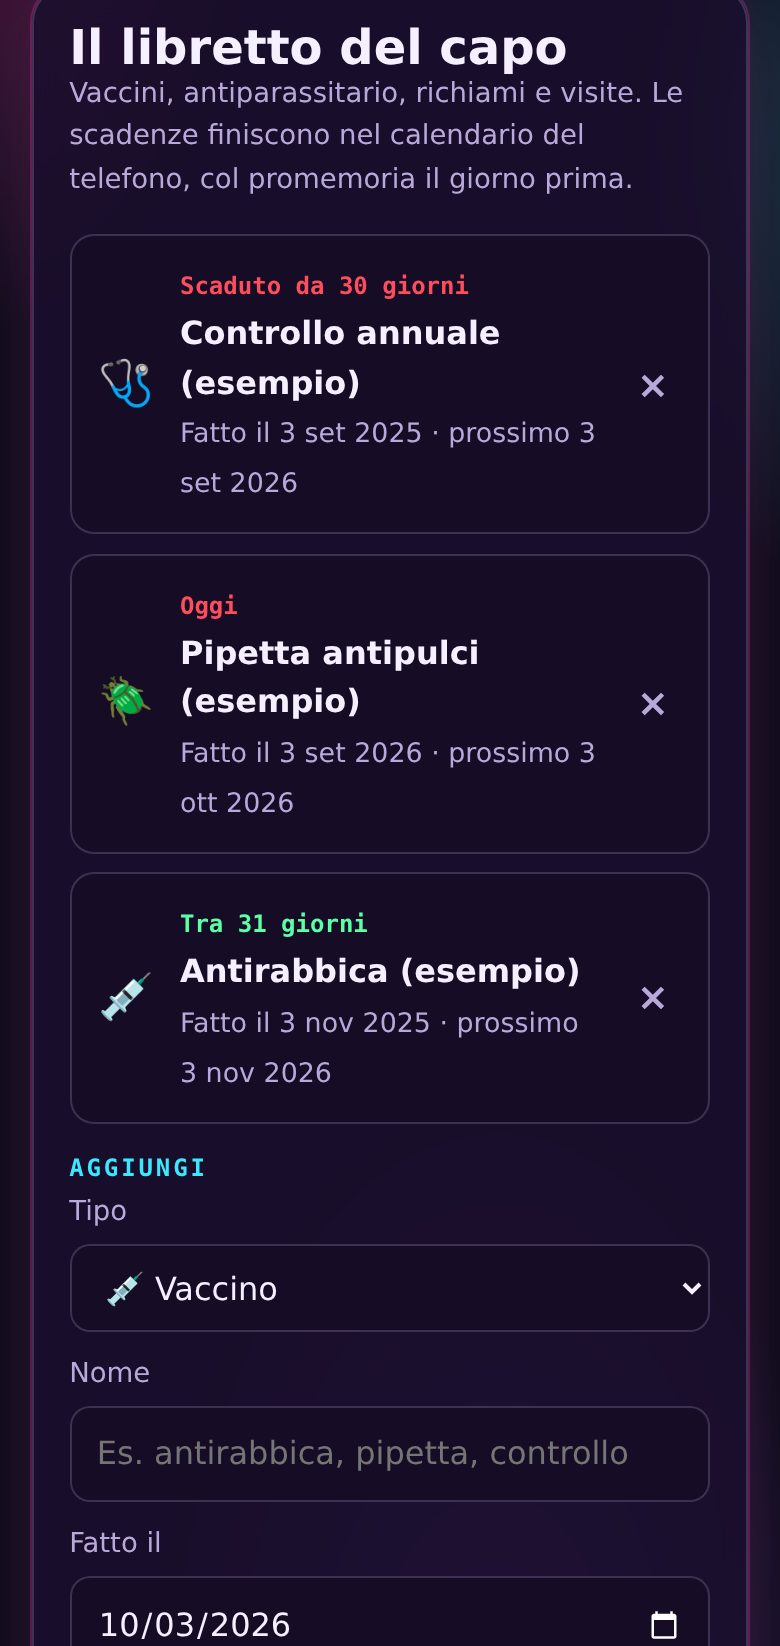
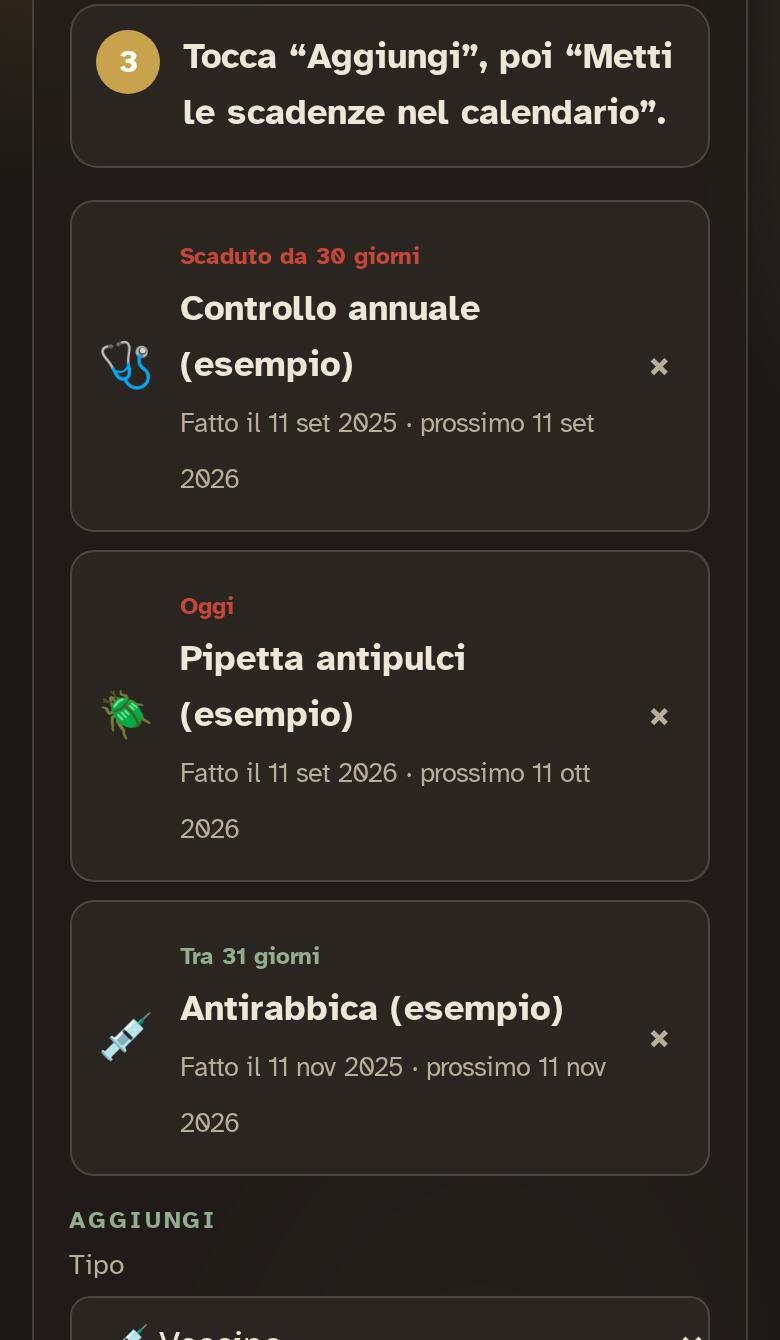
Home: tolto obiettivo del mese, tesserino e libretto coi colori caldi
Screenshot nuovi dell'app nello stile caldo, più leggeri (334 KB -> 159 KB)
e con alt descrittivi. Sfondo del tesserino disegnato senza viola.

Claude-Session: https://claude.ai/code/session_01BKwM2myyjwvkV7urNBGCWK

diff --git a/docs/index.html b/docs/index.html
@@ -376,8 +376,8 @@ footer .who + p{margin-top:.6rem}
       </div>
     </div>
     <div class="phones" aria-label="Schermate dell'app">
-      <figure class="p1"><div class="scr"><img src="/img/app-tesserino.jpg" alt="Schermata del tesserino col QR" loading="lazy" width="780" height="1646"></div><figcaption>Il tesserino, fronte e retro.</figcaption></figure>
-      <figure class="p2"><div class="scr"><img src="/img/app-libretto.jpg" alt="Schermata del libretto dei vaccini" loading="lazy" width="780" height="1646"></div><figcaption>Il libretto dei vaccini.</figcaption></figure>
+      <figure class="p1"><div class="scr"><img src="/img/app-tesserino.jpg" alt="Tesserino gratis per cane e gatto con QR da collare: fronte con nome e foto, retro con microchip e contatti" loading="lazy" width="780" height="1340"></div><figcaption>Il tesserino, fronte e retro.</figcaption></figure>
+      <figure class="p2"><div class="scr"><img src="/img/app-libretto.jpg" alt="Libretto online dei vaccini e degli antiparassitari del cane con le scadenze e il promemoria" loading="lazy" width="780" height="1340"></div><figcaption>Il libretto dei vaccini.</figcaption></figure>
     </div>
   </section>
 
@@ -390,13 +390,10 @@ footer .who + p{margin-top:.6rem}
       <div class="conto" id="conto">
         <h3>Il conto di ottobre</h3>
         <dl>
-          <dt>Obiettivo del mese</dt><dd>109 €</dd>
           <dt>Incassato</dt><dd>4,98 €</dd>
           <dt>Spese<small>Pubblicità Facebook 10 €, TikTok 8,47 €, commissioni Stripe 0,68 €. La pubblicità la paga Federico.</small></dt><dd>19,15 €</dd>
           <dt>Donato ai rifugi</dt><dd>2 €</dd>
         </dl>
-        <div class="meter" role="img" aria-label="Incassati 4,98 euro su 109"><span style="width:4.57%;background:var(--sage)"></span></div>
-        <p class="key"><span><i style="background:var(--sage)"></i>Incassato, su 109 €</span></p>
         <p class="note">Numeri veri, aggiornati a mano ogni sera. Ultimo: 11 ottobre 2026, ore 02:20.</p>
       </div>
     </div>

diff --git a/docs/ufficio/index.html b/docs/ufficio/index.html
@@ -757,7 +757,7 @@ show();})();
   function wrap(x,text,maxW){var words=text.split(' '),lines=[],cur='';words.forEach(function(w){var t=cur?cur+' '+w:w;if(x.measureText(t).width>maxW&&cur){lines.push(cur);cur=w}else cur=t});if(cur)lines.push(cur);return lines}
   function fit(x,text,font,size,maxW){do{x.font=font.replace('%',size)}while(x.measureText(text).width>maxW&&(size-=2)>20);return size}
   function bg(x,w,h){
-    var g=x.createLinearGradient(0,0,w,h);g.addColorStop(0,'#1B0B2E');g.addColorStop(1,'#1A1714');x.fillStyle=g;rr(x,0,0,w,h,36);x.fill();
+    var g=x.createLinearGradient(0,0,w,h);g.addColorStop(0,'#2A2520');g.addColorStop(1,'#1A1714');x.fillStyle=g;rr(x,0,0,w,h,36);x.fill();
     [[120,80,260,'rgba(201,162,78,.35)'],[w-80,140,240,'rgba(147,173,142,.25)'],[w*0.6,h-40,300,'rgba(147,173,142,.30)']].forEach(function(b){var r=x.createRadialGradient(b[0],b[1],0,b[0],b[1],b[2]);r.addColorStop(0,b[3]);r.addColorStop(1,'rgba(0,0,0,0)');x.fillStyle=r;x.fillRect(0,0,w,h)});
     var rb=x.createLinearGradient(0,0,w,0);['#C9A24E','#D6B262','#93AD8E','#93AD8E','#93AD8E'].forEach(function(c,i){rb.addColorStop(i/4,c)});
     x.lineWidth=10;x.strokeStyle=rb;rr(x,5,5,w-10,h-10,32);x.stroke();return rb;
